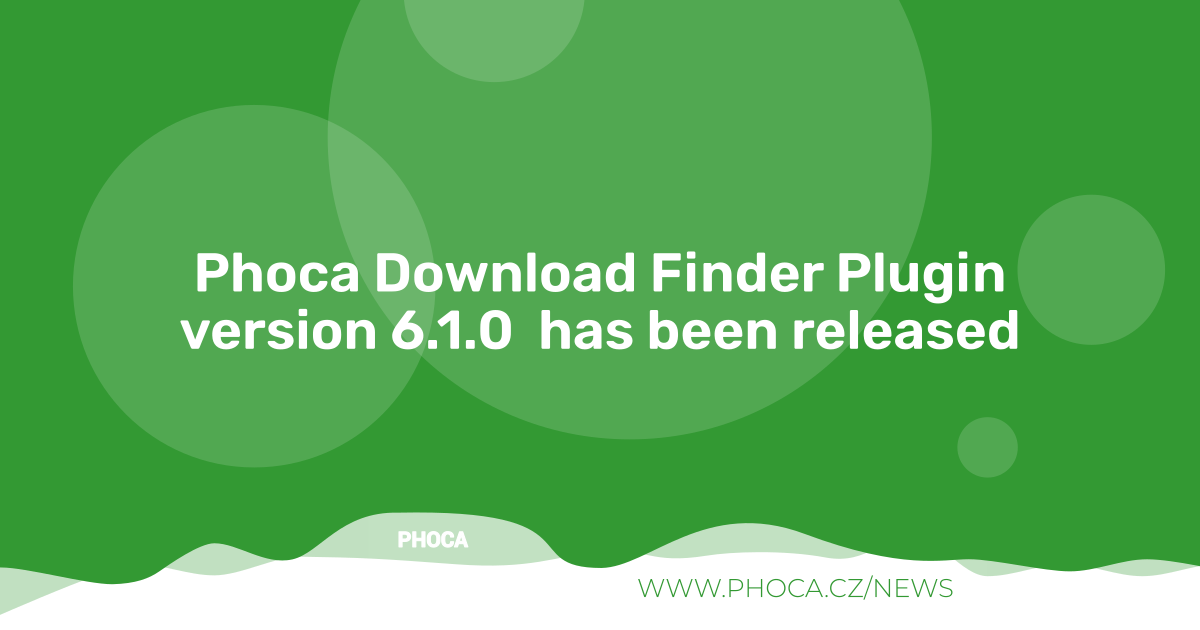
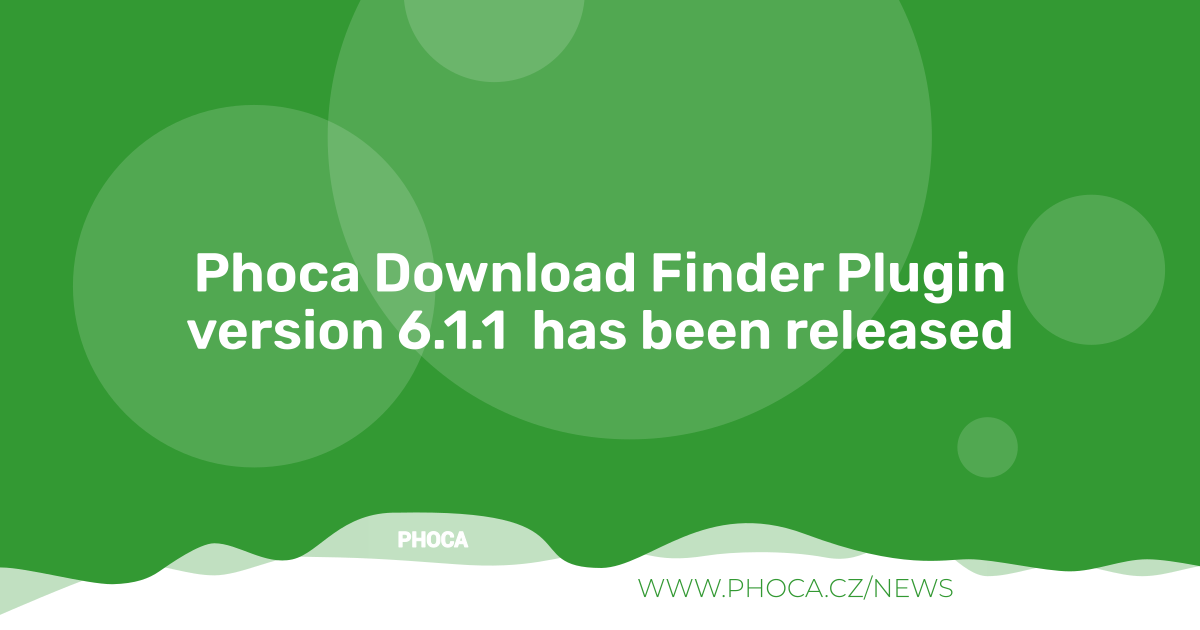
6.1.1

Changed region(s): [[0.1542, 0.4825, 0.8633, 0.573]]

diff --git a/phocadownload.php b/phocadownload.php
@@ -46,7 +46,7 @@ class PlgFinderPhocadownload extends Adapter
 	public function onFinderAfterDelete($context, $table)
 	{
 
-		if ($context == 'com_phocacart.phocacartitem')
+		if ($context == 'com_phocadownload.phocacartitem')
 		{
 			$id = $table->id;
 		}